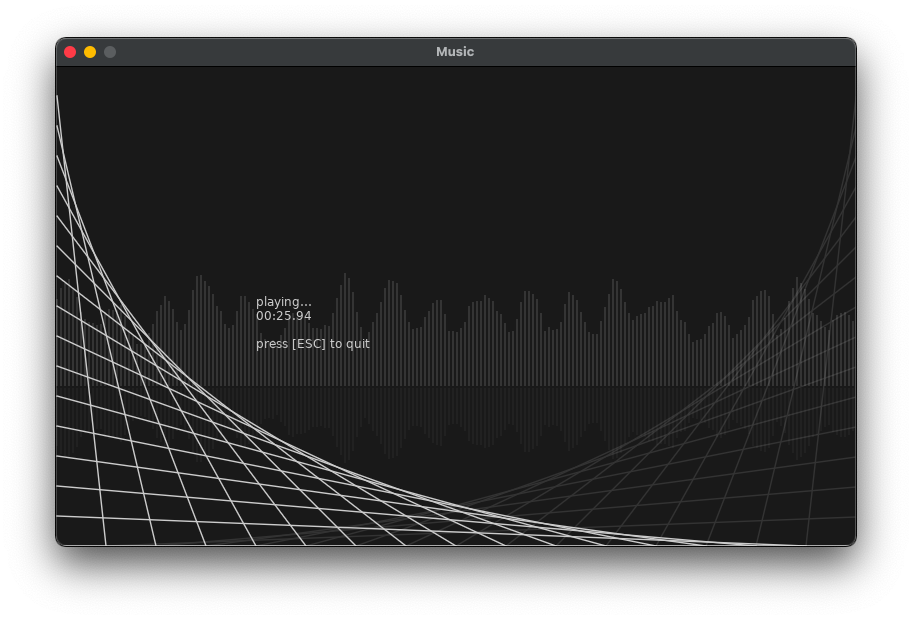
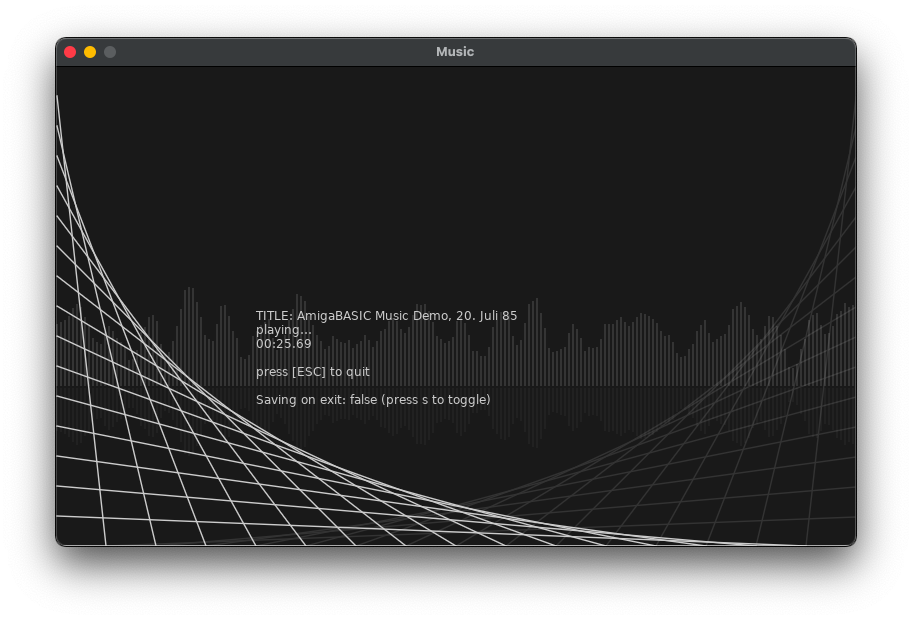
updated docs

diff --git a/readme.md b/readme.md
@@ -8,7 +8,7 @@ Music is created using MML, a simple [Music Macro Language](https://en.wikipedia
 
 The oscillator code is based on the [Denver Synthesizer Library](https://love2d.org/forums/viewtopic.php?t=79499) and the MML parser is a changed and extended version of the one used in [love-mml](https://github.com/GoonHouse/love-mml).
 
-Songs can be saved as AIFF. I have written the save routine from a scratch. Just press *s* during playback to toggle saving on exit.
+Songs can be saved as AIFF. I have written the save routine from a scratch. Just press *s* during playback to toggle saving on exit. The composer and title info, if specified in the mml, will be written to the AIFF as well.
 
 The MML instrucions set is not complete, yet – and not really standard.
 
